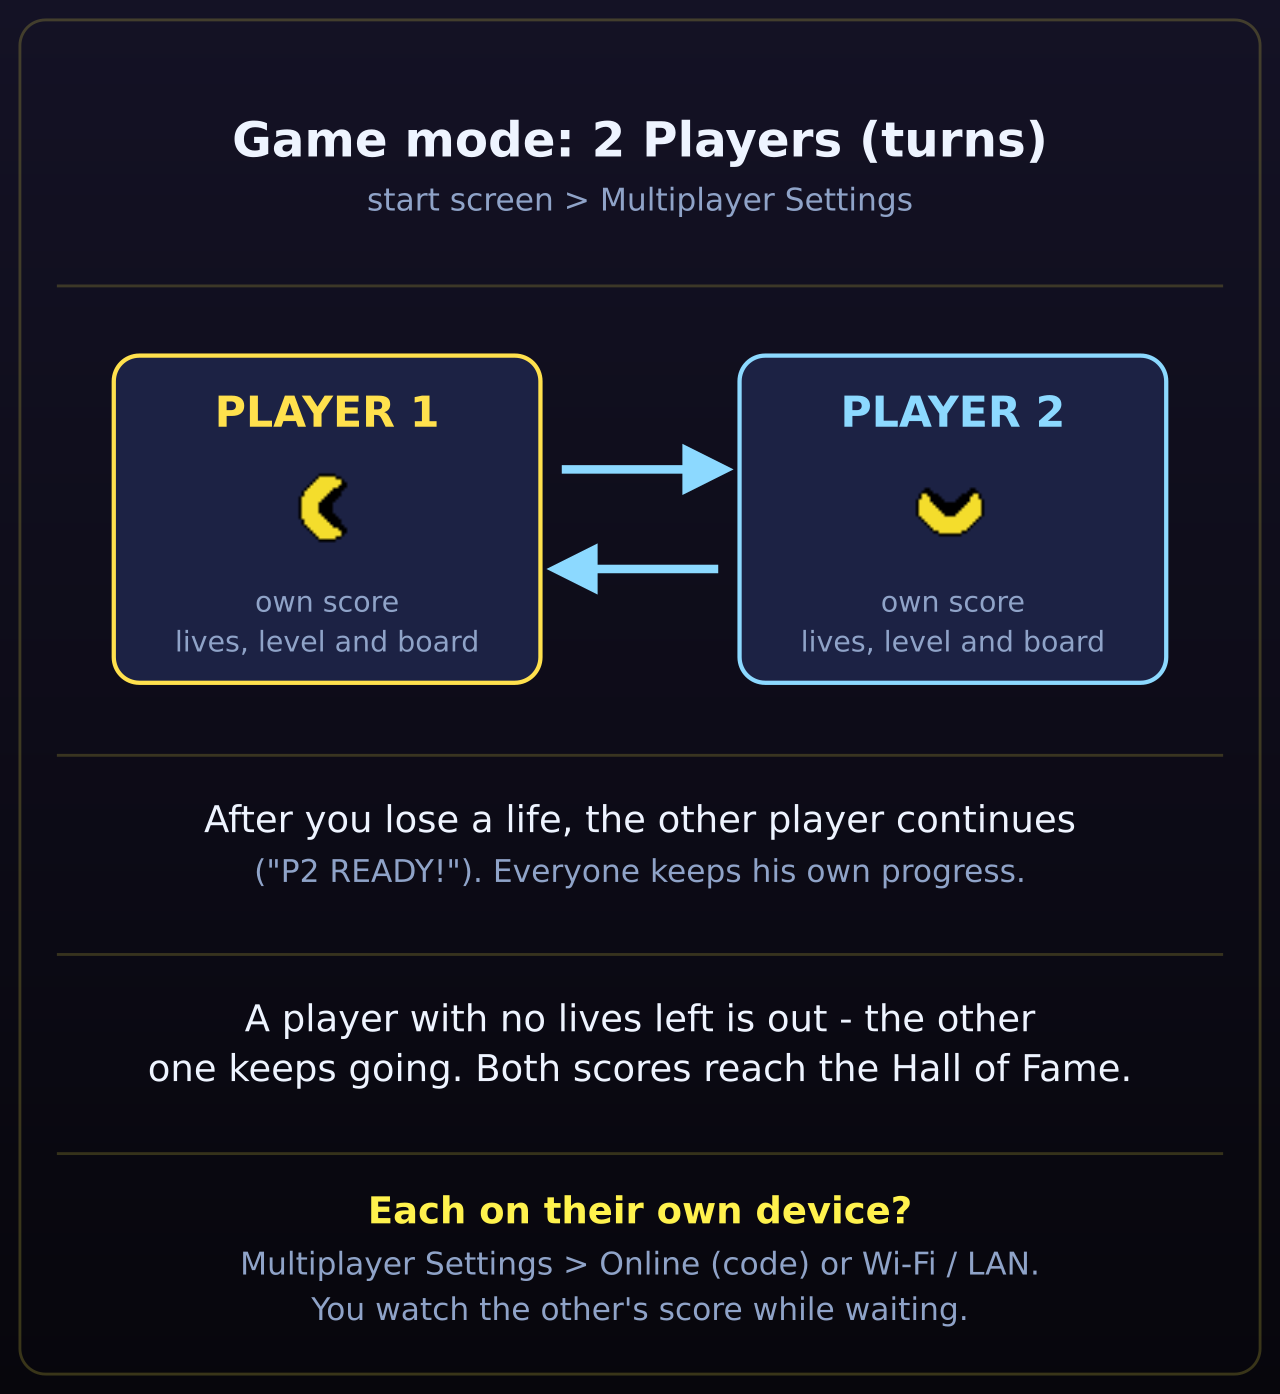
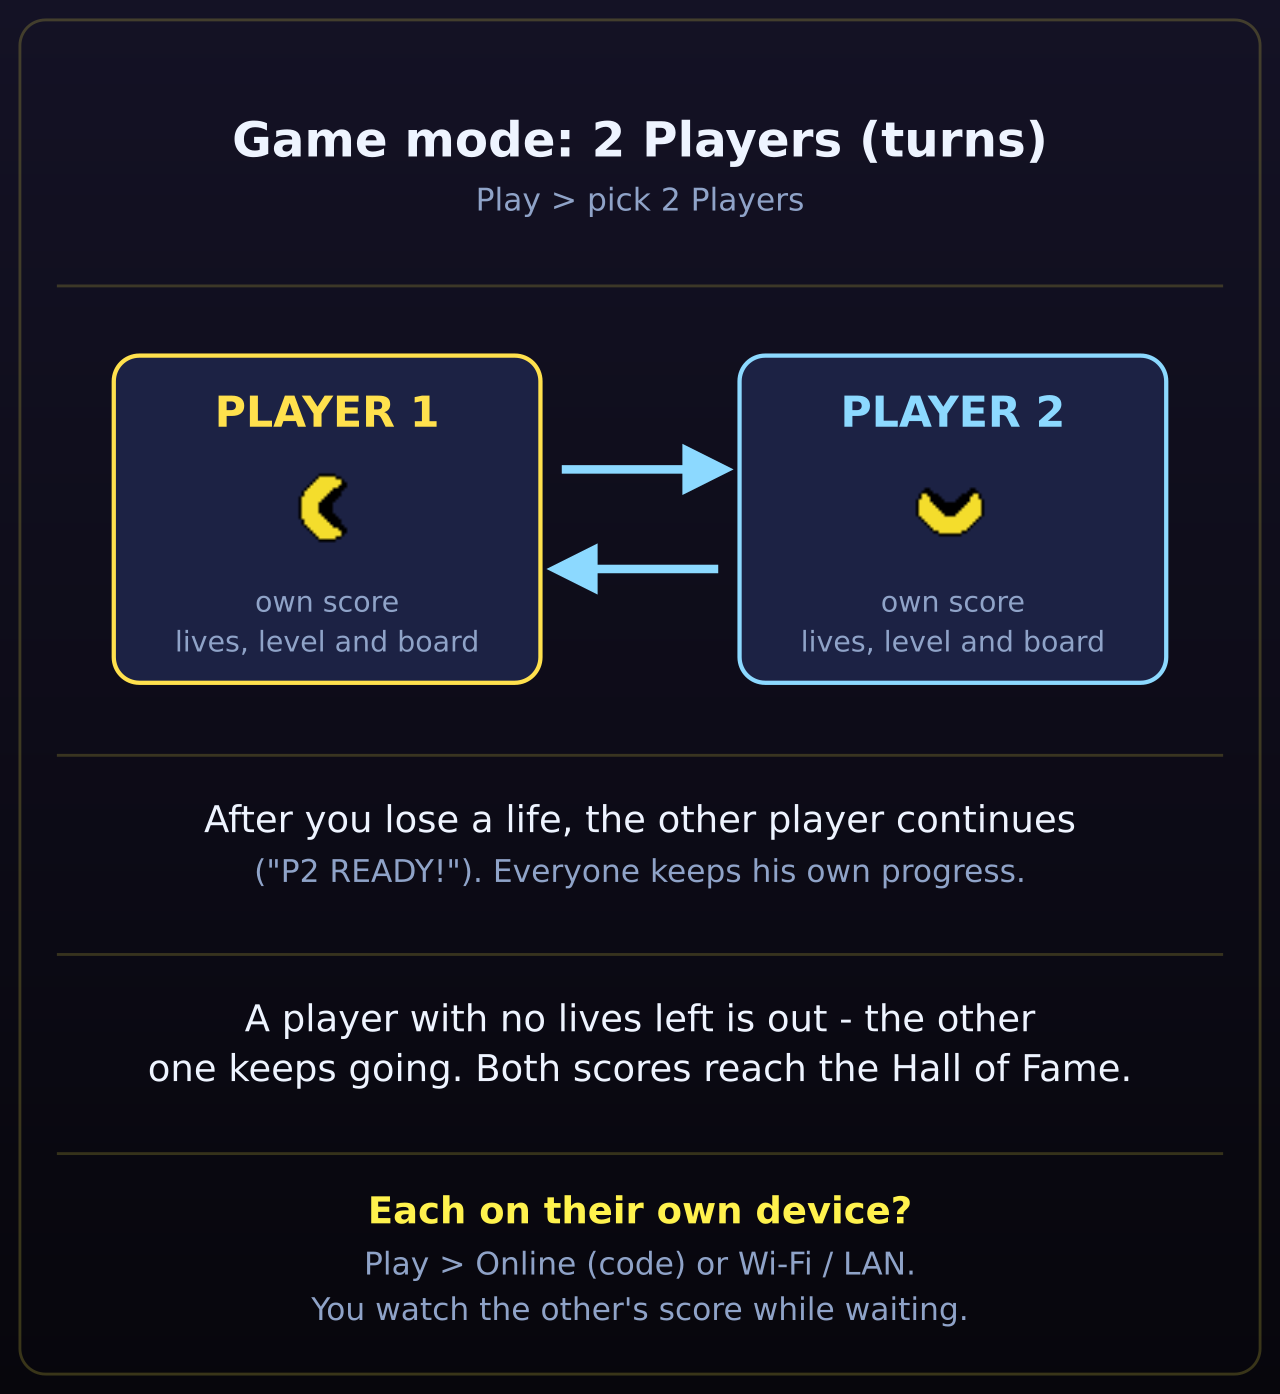
Play öffnet Spielart-Auswahl (wie Mario), ENet-Timeout 30 s, Netz auf zwei echten Geräten getestet

Changed region(s): [[0.1875, 0.8945, 0.8125, 0.9254], [0.2812, 0.1234, 0.7188, 0.1542]]

diff --git a/TODO.md b/TODO.md
@@ -38,6 +38,7 @@ Gemeinsam für die Serie (Vorlage: mario-clone v1.6–v1.9):
 
 ## Erledigt
 
+- [x] 2026-10-05 v1.8 Wie bei Mario: Play (und Continue) öffnen direkt „How do you want to play?“ (1 Player / 2 Players this device / Online / Wi-Fi-LAN) — der Extra-Button im Startmenü entfällt; Continue-Level wird auch in Netz-Spiele übernommen (Host gibt vor). Netz auf zwei echten Geräten getestet (RG552 = Host, OnePlus = Gast, LAN-Auto-Suche, 3 Züge je Spieler, beide zeigen am Ende 70:70 „DRAW“). Gefunden per logcat: das WLAN des RG552 stockt gelegentlich mehrere Sekunden, ENet-Timeout von 8 s kappte die Verbindung kurz vor dem letzten `turn_end` → Timeout jetzt 10–30 s.
 - [x] 2026-10-05 v1.7.2 Startmenü-Button heißt jetzt fest „Multiplayer Settings“ (statt wechselndem „Game mode: …“); das Untermenü zeigt oben „Current: …“ und die Wahl (1 Spieler / 2 Spieler hier / Online / WLAN-LAN) mit Untermenüs; Hilfe und Wartetexte angepasst.
 - [x] 2026-10-05 v1.7.1 Netz-Züge auf echten Geräten getestet (PC als LAN-Host per `tools/nettest.gd`, RG552 als Gast per Menü: Host wurde automatisch gefunden, Verbinden, Zugwechsel mit Live-Stand „P1 160 x2 L1“, Spielende mit gleichen Ständen auf beiden Seiten). Fix: Fokus sprang bei jeder Host-Listenaktualisierung ins IP-Feld und öffnete die Bildschirmtastatur. Das Handy (OnePlus) war gesperrt und blieb außen vor.
 - [x] 2026-10-05 v1.7 Spielmodus-Menü („Game mode“ im Startmenü): 1 Spieler / 2 Spieler an diesem Gerät / 2 Spieler Online (Relay, 4-Buchstaben-Code) / 2 Spieler WLAN-LAN, jeweils abwechselnd. Netz: jedes Gerät simuliert nur den eigenen Zug (`turns_net.gd` + `net_link.gd` aus tetris, Spiel-Kennung „pacman“); beim Warten sieht man Punkte/Leben/Level des anderen live; Spielende auf beiden Seiten mit beiden Ständen, je ein Hall-of-Fame-Eintrag (nur der eigene). Host = Spieler 1 und gibt die Spieleinstellungen vor. `tools/nettest.gd` testet das mit zwei Prozessen (LAN und Relay). Android: Internet-Berechtigung an. Noch nicht auf echten zwei Geräten gespielt.

diff --git a/CLAUDE.md b/CLAUDE.md
@@ -204,3 +204,10 @@ währenddessen. Offene Punkte sammelt ab jetzt `TODO.md`.
   `tools/nettest.gd` (host/guest [online]); lokaler Relay: `cd ../mario-clone/
   server && PORT=8765 node relay.js`. **Nicht `pkill -f "node relay.js"`** —
   trifft die eigene Shell.
+- **Menüfluss (ab v1.8)**: wie mario-clone — Play/Continue → `_open_mode_menu()`
+  („How do you want to play?“) → 1/2 Spieler startet sofort, Online/LAN führen
+  in die Host/Join-Screens. Kein eigener Startmenü-Button. **ENet-Timeout
+  10–30 s** (`net_link.gd`): das RG552-WLAN stockt oft 2–3 s, bei 8 s Timeout
+  ging das letzte `turn_end` verloren. Zwei-Geräte-Test per adb:
+  `input keyevent` (ENTER/DPAD_DOWN) navigiert die Menüs, `logcat | grep` zum
+  Debuggen (Tag `godot`), Handy entsperrt lassen.
